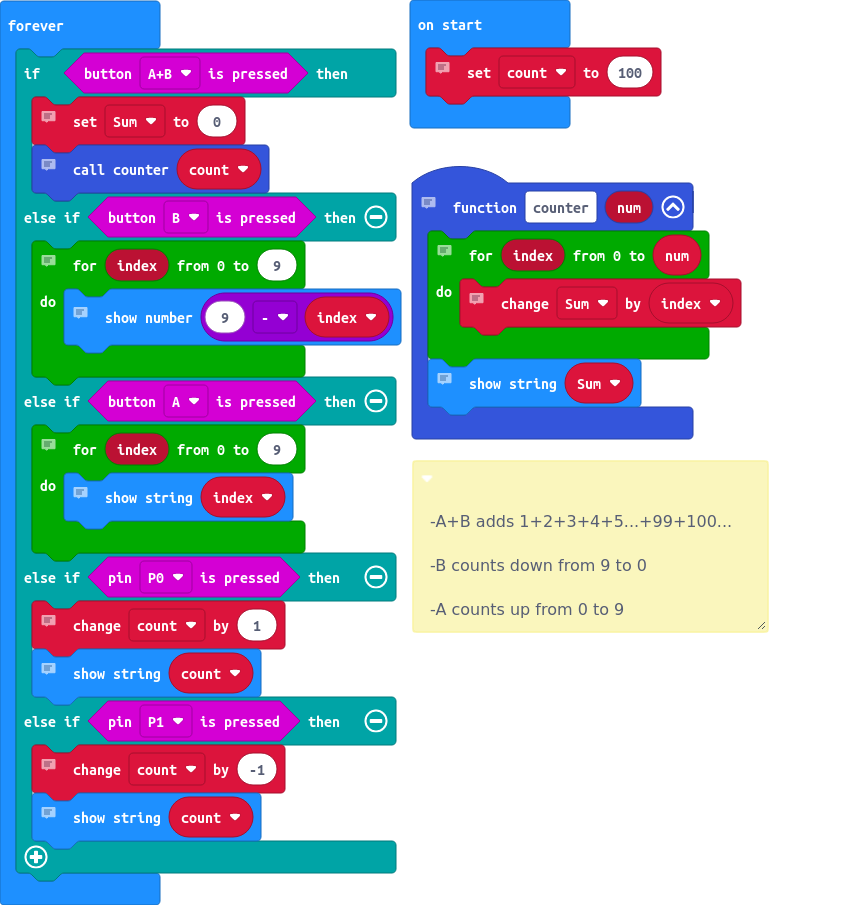
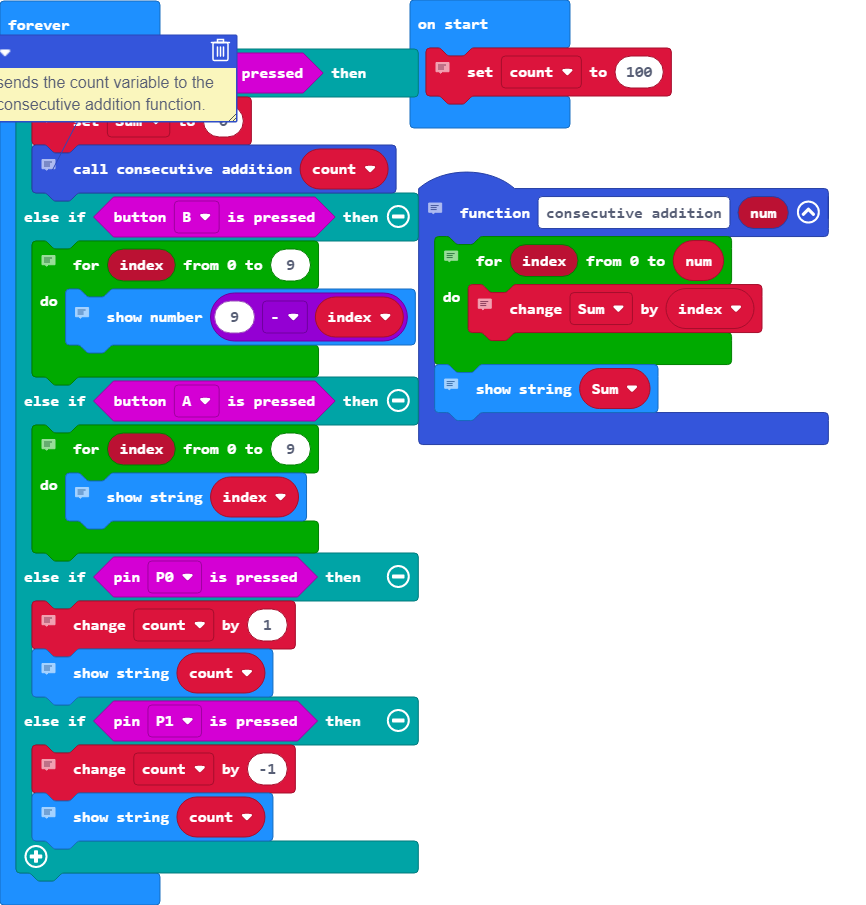
Update main.blocks, main.ts

diff --git a/main.ts b/main.ts
@@ -1,5 +1,5 @@
 // runs inside code when called on
-function counter (num: number) {
+function consecutive_addition (num: number) {
     // when A+B is pressed index increases by 1 from 0 to 100 and loops the inside code every time it increases
     for (let index = 0; index <= num; index++) {
         // increases the sum variable by the index variable
@@ -11,19 +11,12 @@ function counter (num: number) {
 let Sum = 0
 // on start the count variable is set to a default of 100
 let count = 100
-/**
- * -A+B adds 1+2+3+4+5...+99+100...
- * 
- * -B counts down from 9 to 0
- * 
- * -A counts up from 0 to 9
- */
 basic.forever(function () {
     if (input.buttonIsPressed(Button.AB)) {
-        // Sets sum to 0 so that code displays correct answer multiple times without reset
+        // Sets sum to 0 so that code displays correct answer infinite times without requiring a reset
         Sum = 0
-        // sends the count variable to the counter function.
-        counter(count)
+        // sends the count variable to the consecutive addition function.
+        consecutive_addition(count)
     } else if (input.buttonIsPressed(Button.B)) {
         // If B is pressed the index variable increases by 1 from 0 to 9 and loops inside code every time it increases
         for (let index = 0; index <= 9; index++) {
